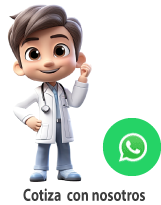
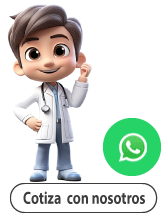
varios

Changed region(s): [[0.0311, 0.0585, 1.0, 1.0]]

diff --git a/index.html b/index.html
@@ -13,7 +13,7 @@
   
   <nav id="navbar" class="navbar navbar-expand-lg bg-body-tertiary">
     <div class="container">
-      <a class="navbar-brand" href="#">LOGO</a>
+      <a class="navbar-brand ms-4" href="#">LOGO</a>
       <button class="navbar-toggler" type="button" data-bs-toggle="collapse" data-bs-target="#navbarSupportedContent" aria-controls="navbarSupportedContent" aria-expanded="false" aria-label="Toggle navigation">
         <span class="navbar-toggler-icon"></span>
       </button>
@@ -163,6 +163,72 @@
                       </div>
                   </div>
                 </div>
+
+
+
+
+                <div class="carousel-item">
+                  <div class="card">
+                      <div class="img-wrapper"><img src="./images/p-09.jpeg" class="d-block w-100" alt="..."> </div>
+                      <div class="card-body">
+                          <h5 class="card-title">Sondas foley de 2 vías</h5>
+                      </div>
+                  </div>
+                </div>
+
+                <div class="carousel-item">
+                  <div class="card">
+                      <div class="img-wrapper"><img src="./images/p-10.jpeg" class="d-block w-100" alt="..."> </div>
+                      <div class="card-body">
+                          <h5 class="card-title">Máscara de oxígeno venturi</h5>
+                      </div>
+                  </div>
+                </div>
+
+                <div class="carousel-item">
+                  <div class="card">
+                      <div class="img-wrapper"><img src="./images/p-11.jpeg" class="d-block w-100" alt="..."> </div>
+                      <div class="card-body">
+                          <h5 class="card-title">Guantes quirúrgicos</h5>
+                      </div>
+                  </div>
+                </div>
+
+                <div class="carousel-item">
+                  <div class="card">
+                      <div class="img-wrapper"><img src="./images/p-12.jpeg" class="d-block w-100" alt="..."> </div>
+                      <div class="card-body">
+                          <h5 class="card-title">Citocepillo</h5>
+                      </div>
+                  </div>
+                </div>
+
+                <div class="carousel-item">
+                  <div class="card">
+                      <div class="img-wrapper"><img src="./images/p-13.jpeg" class="d-block w-100" alt="..."> </div>
+                      <div class="card-body">
+                          <h5 class="card-title">Espéculo vaginal</h5>
+                      </div>
+                  </div>
+                </div>
+
+                <div class="carousel-item">
+                  <div class="card">
+                      <div class="img-wrapper"><img src="./images/p-14.jpeg" class="d-block w-100" alt="..."> </div>
+                      <div class="card-body">
+                          <h5 class="card-title">Gasa fraccionada estéril</h5>
+                      </div>
+                  </div>
+                </div>
+
+                <div class="carousel-item">
+                  <div class="card">
+                      <div class="img-wrapper"><img src="./images/p-15.jpeg" class="d-block w-100" alt="..."> </div>
+                      <div class="card-body">
+                          <h5 class="card-title">Bajalengua de madera estéril y no estéril</h5>
+                      </div>
+                  </div>
+                </div>
     
     
             </div>
@@ -182,19 +248,23 @@
 
     <div id="nosotros" class="p-4">
         <div class="container d-flex justify-content-evenly flex-wrap">
-          <div class="col-lg-4 col-md-6 col-sm-12 me-2 text-start">
-              <h5>NOSOTROS</h5>
-              <p>Somos una empresa dedicada a la compra, almacenamiento, distribución y comercialización de productos farmacéuticos, dispositivos médicos y productos sanitarios. Tenemos como política brindar productos de calidad y servicio eficiente a nuestros clientes.</p>
+          <div class="col-lg-4 col-md-6 col-sm-12 pe-2 text-start">
+              <h5>¿POR QUÉ ELEGIRNOS?</h5>
+              <p>Ofrecemos una variedad de productos médicos de calidad a su disposición y a los mejores precios.</p>
           </div>
-          <div class="col-lg-2 col-md-3 col-sm-12 me-2 text-start">
+          <div class="col-lg-2 col-md-6 col-sm-12 pe-2 text-start">
             <p><i class="bi bi-people-fill fs-2"></i></p>
-            <p>Ética y profesionalismo con nuestros clientes.</p>
+            <p>Atención inmediata y personalizada con nuestra área de ventas</p>
 
           </div>
-          <div class="col-lg-2 col-md-3 col-sm-12 me-2 text-start" >
+          <div class="col-lg-2 col-md-6 col-sm-12 pe-2 text-start" >
             <p><i class="bi bi-card-checklist fs-2"></i></p>
-            <p>Contamos con certificaciones de DIGEMID.</p>
+            <p>Entrega rápida a Lima y provincia</p>
+          </div>
 
+          <div class="col-lg-2 col-md-6 col-sm-12 pe-2 text-start" >
+            <p><i class="bi bi-card-checklist fs-2"></i></p>
+            <p>Contamos con certificaciones de Digemid</p>
           </div>
         </div>
     </div>
@@ -242,8 +312,10 @@
           <h5>Contacto</h5>
           <ul class="nav flex-column">
             <li class="nav-item mb-2">Correo: annlumedicsac@gmail.com</li>
-            <li class="nav-item mb-2">Dirección: Jr. Mateo Aguilar 220 – SMP</li>
+            
             <li class="nav-item mb-2">Teléfono: 937207051</li>
+            <li class="nav-item mb-2">Oficina: Pro. Lucanas Nro. 718 Lima - La Victoria</li>
+            <li class="nav-item mb-2">Dirección: Jr. Mateo Aguilar 220 – SMP</li>
           </ul>
         </div>
         

diff --git a/contacto.html b/contacto.html
@@ -13,7 +13,7 @@
   
   <nav id="navbar" class="navbar navbar-expand-lg bg-body-tertiary">
     <div class="container">
-      <a class="navbar-brand" href="#">LOGO</a>
+      <a class="navbar-brand ms-4" href="#">LOGO</a>
       <button class="navbar-toggler" type="button" data-bs-toggle="collapse" data-bs-target="#navbarSupportedContent" aria-controls="navbarSupportedContent" aria-expanded="false" aria-label="Toggle navigation">
         <span class="navbar-toggler-icon"></span>
       </button>
@@ -140,8 +140,10 @@
           <h5>Contacto</h5>
           <ul class="nav flex-column">
             <li class="nav-item mb-2">Correo: annlumedicsac@gmail.com</li>
-            <li class="nav-item mb-2">Dirección: Jr. Mateo Aguilar 220 – SMP</li>
+            
             <li class="nav-item mb-2">Teléfono: 937207051</li>
+            <li class="nav-item mb-2">Oficina: Pro. Lucanas Nro. 718 Lima - La Victoria</li>
+            <li class="nav-item mb-2">Dirección: Jr. Mateo Aguilar 220 – SMP</li>
           </ul>
         </div>
         

diff --git a/styles.css b/styles.css
@@ -72,7 +72,7 @@ body {
     height: 300px;
   }
 
-  @media (min-width: 400px) and (max-width: 576px){
+  @media (min-width: 300px) and (max-width: 576px){
 
     .col-sm-12 {
       flex: 0 0 auto !important;
@@ -165,7 +165,7 @@ body {
 
    @media (max-width: 500px){
     #ws{
-      width: 120px;
-      height: 150px;
+      width: 128px;
+      height: 170px;
     }
    }
